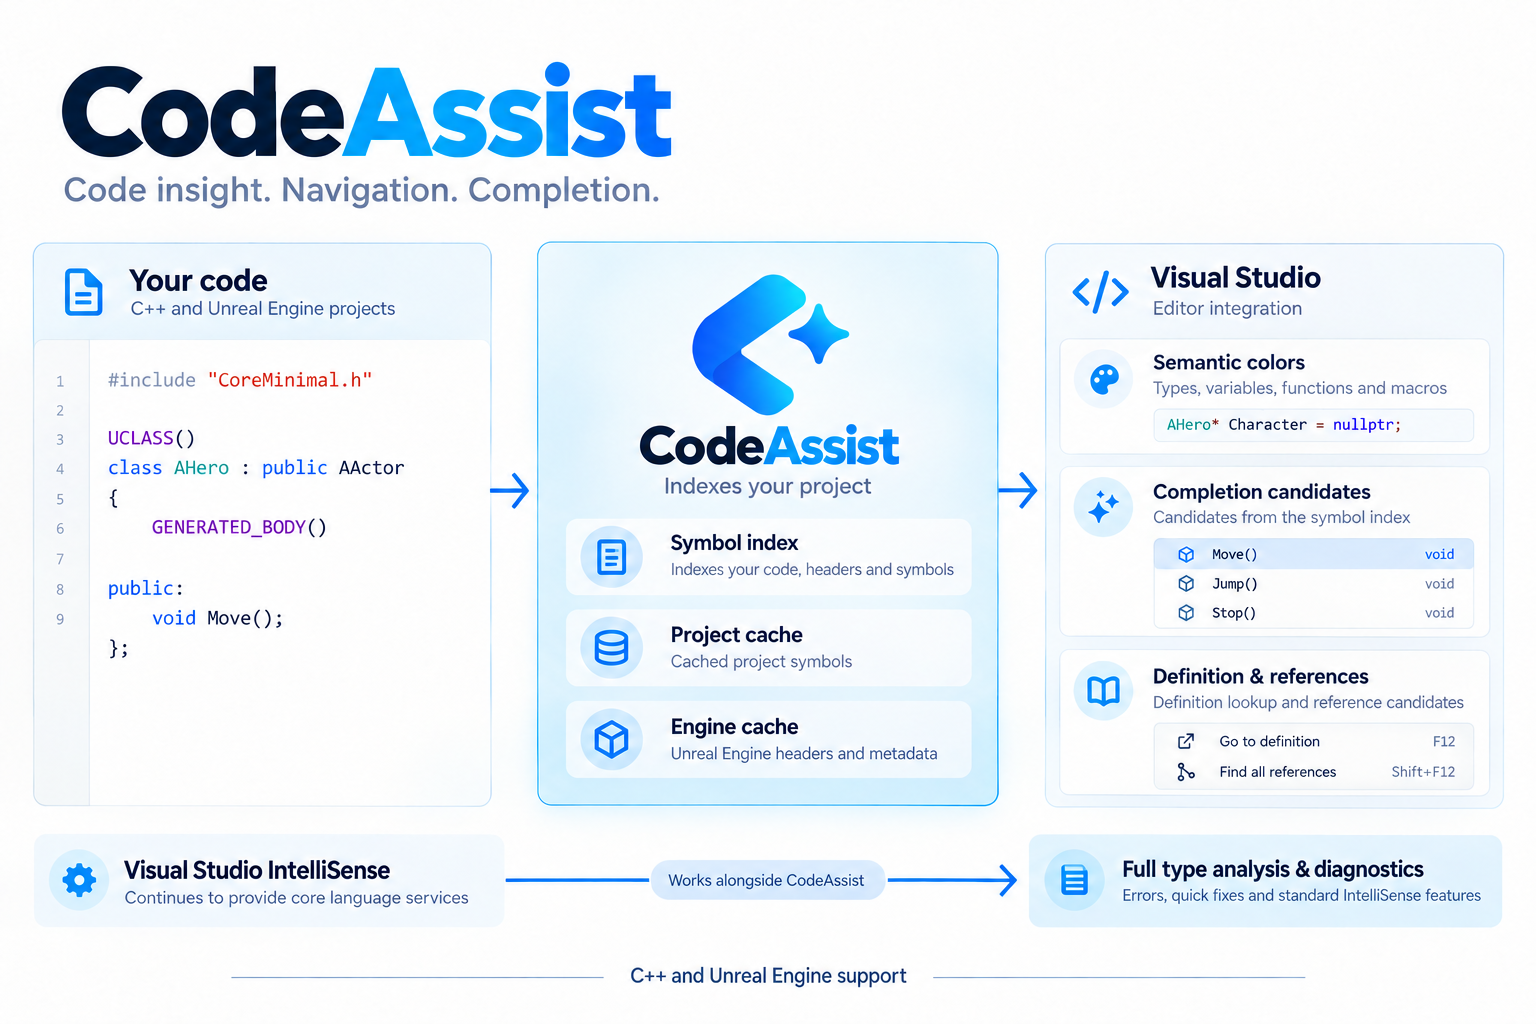
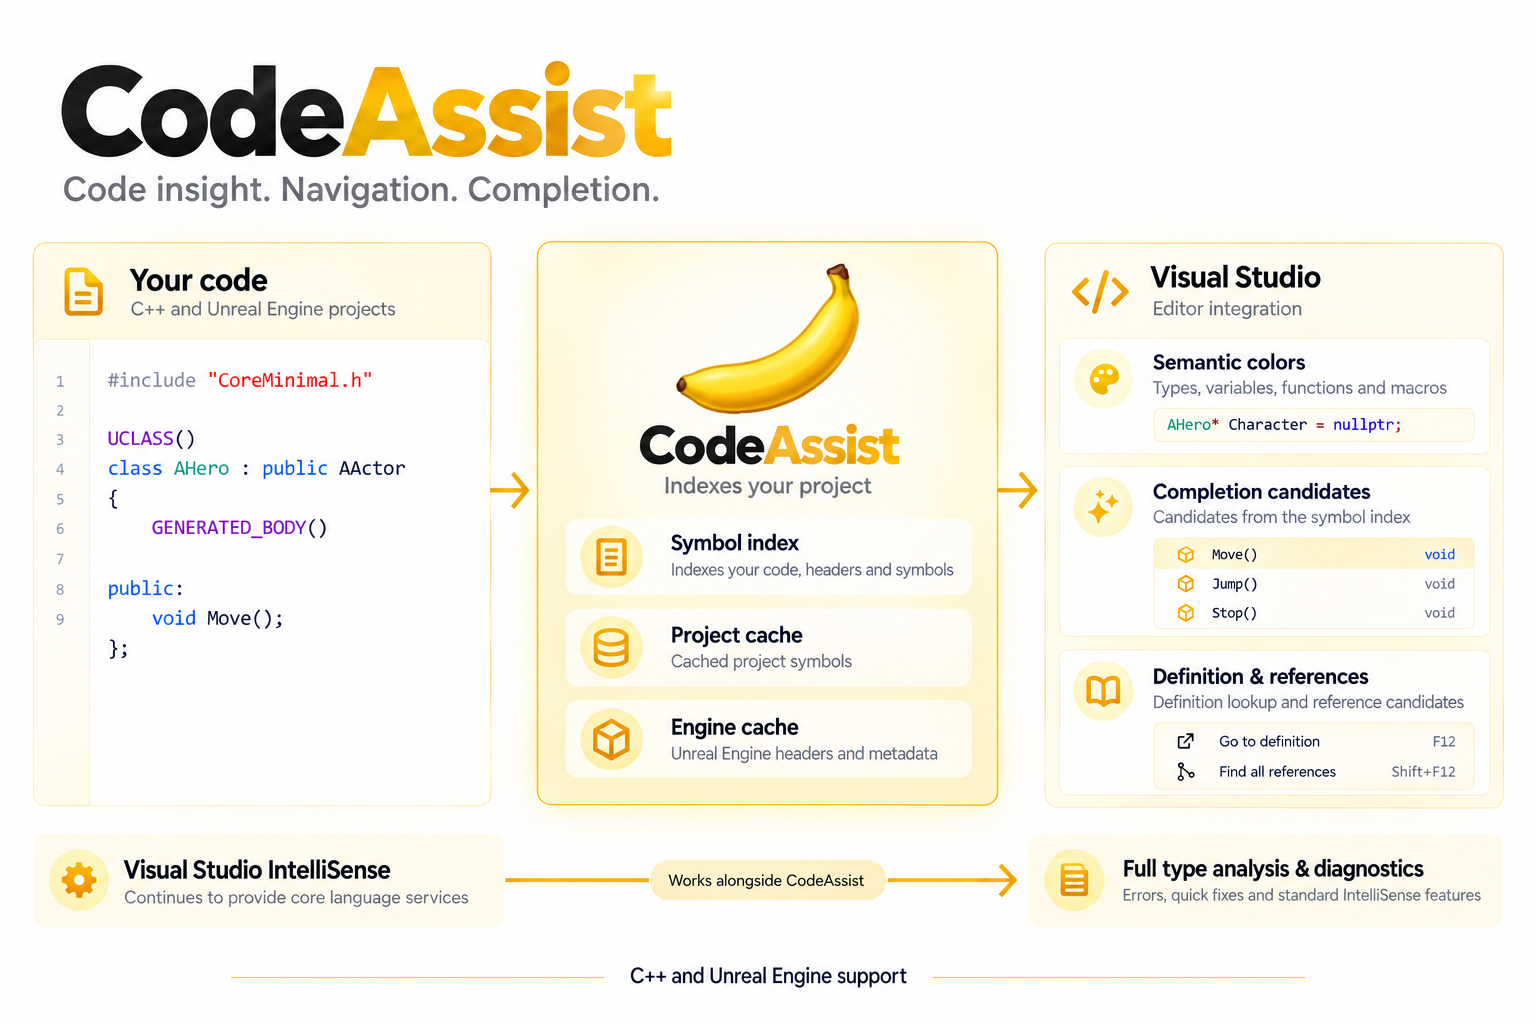
Restore established yellow banana branding

diff --git a/README.md b/README.md
@@ -1,5 +1,5 @@
 <p align="center">
-  <img src="docs/assets/codeassist-logo.png" alt="CodeAssist logo" width="80">
+  <img src="docs/assets/codeassist-logo.png" alt="CodeAssist 노란색 바나나 로고" width="80">
 </p>
 <h1 align="center">CodeAssist</h1>
 <p align="center"><strong>Code insight. Navigation. Completion.</strong></p>
@@ -24,7 +24,7 @@ CodeAssist는 Visual Studio 2022용 범용 개발 보조 확장입니다. 현재
 
 설명 이미지는 작동 구조를 표현한 도식이며 실제 Visual Studio 화면이 아닙니다.
 
-[![CodeAssist 다운로드](https://img.shields.io/badge/CodeAssist-VSIX%20다운로드-1677FF?style=for-the-badge)](https://github.com/MDJ0126/CodeAssist/raw/refs/heads/main/CodeAssist.vsix)
+[![CodeAssist 다운로드](https://img.shields.io/badge/CodeAssist-VSIX%20다운로드-F5C542?style=for-the-badge)](https://github.com/MDJ0126/CodeAssist/raw/refs/heads/main/CodeAssist.vsix)
 
 ## 설치
 
